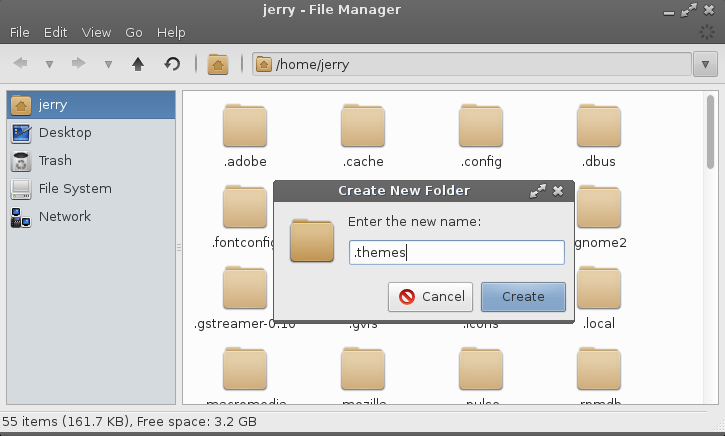
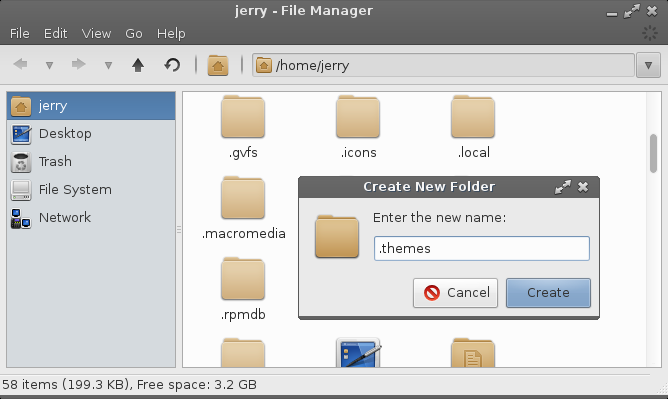
manual

diff --git a/C/install.html b/C/install.html
@@ -342,25 +342,52 @@
 				icons.</p>
 				<p><b><font size="4">Applying a new Theme</font></b></p>
 				<p>Head over to the
-				<a target="_blank" href="http://gnome-look.org/">Gnome Look</a> 
-				website and choose a
-				<a target="_blank" href="http://gnome-look.org/?xcontentmode=100">
-				GTK2</a> theme of your liking.</p>
+				<a target="_blank" href="http://xfce-look.org/index.php?xcontentmode=15x100x420">
+				XFCE Look</a> website and choose theme of your liking.</p>
 				<p><b>NOTE: Not all themes from there will work as you would 
 				expect, please read all of the documentation before attempting 
 				to apply a new theme. Some make installation easy via a PPA, 
 				this is a preferable method to the one shown here. Click
 				<a href="software.html#ppa">here</a> for more information on how 
-				to install a new PPA.</b><br>
-				<br>
-				The first thing we need to do is open up our home folder. Click 
+				to install a new PPA. Whichever theme you choose, make sure that 
+				it mentions XFCE compatability.</b></p>
+				<p>The first thing we need to do is open up our home folder. Click 
 				on <b>View, Show Hidden Files</b>.<br>
 				Right click somewhere in your home folder, <b>Create Folder</b>, 
 				make a folder called <b>.themes </b>(you will only need to do 
 				this once.) This is where we will copy the new theme to.</p>
 				<p><img border="1" src="img/installer/themes4.png"></p>
 				<p>Download a theme of your choosing. In this example we will 
-				choose the xxx</p>
+				choose the Redbird theme.</p>
+				<p><b>NOTE: Each theme may come with a specific set of 
+				install instructions, if they do, please follow those 
+				instructions.</b></p>
+				<p>Next extract the theme you just downloaded (right click,
+				<b>Extract Here</b>)</p>
+				<p><img border="1" src="img/installer/themes5.png"></p>
+				<p>Copy the redbird theme folder to the <b>.themes</b> folder in your 
+				home folder.</p>
+				<p><img border="1" src="img/installer/themes6.png"></p>
+				<p>Now got to <b>Menu, Settings, Settings Manager</b>. There are 
+				2 places we need to apply the new theme, <b>Appearance</b> and
+				<b>Window Manager</b>.</p>
+				<p><img border="1" src="img/installer/themes7.png"></p>
+				<p>First we&#39;ll click into <b>Appearance</b>. Select <b>Redbird</b> 
+				from the list.</p>
+				<p><img border="1" src="img/installer/themes8.png"></p>
+				<p>Click on <b>Overview</b> in the bottom left to go back to the
+				<b>Settings Manager</b>.<br>
+				Now click into <b>Window Manager</b> and select <b>Redbird</b>.</p>
+				<p><img border="1" src="img/installer/themes9.png"></p>
+				<p>We&#39;re almost there. In the picture below you can see that it 
+				hasn&#39;t quite displayed our tray icons properly.</p>
+				<p><img border="0" src="img/installer/themes10.png"></p>
+				<p>Lets click on <b>Menu, Turn Off Computer,</b> and <b>Log Out</b>.<br>
+				Log in again and our new theme now displays properly.</p>
+				<p><img border="0" src="img/installer/themes11.png"></p>
+				<p>
+<a href="#top">Top of page</a></p><hr>
+				<p>&nbsp;</p>
 				<p><b><font size="4">Applying a new Icon set</font></b></p>
 				<p>Head over to the
 				<a target="_blank" href="http://gnome-look.org/">Gnome Look</a> 
@@ -384,7 +411,7 @@
 				choose the 
 				<a target="_blank" href="http://gnome-look.org/content/show.php/Clarity?content=135654">
 				Clarity Icon Set</a>.</p>
-				<p><b>NOTE: Each icon theme may come with a specific set of 
+				<p><b>NOTE: Each icon set may come with a specific set of 
 				install instructions, if they do, please follow those 
 				instructions.</b></p>
 				<p>Next extract the icon set you just downloaded (right click,
